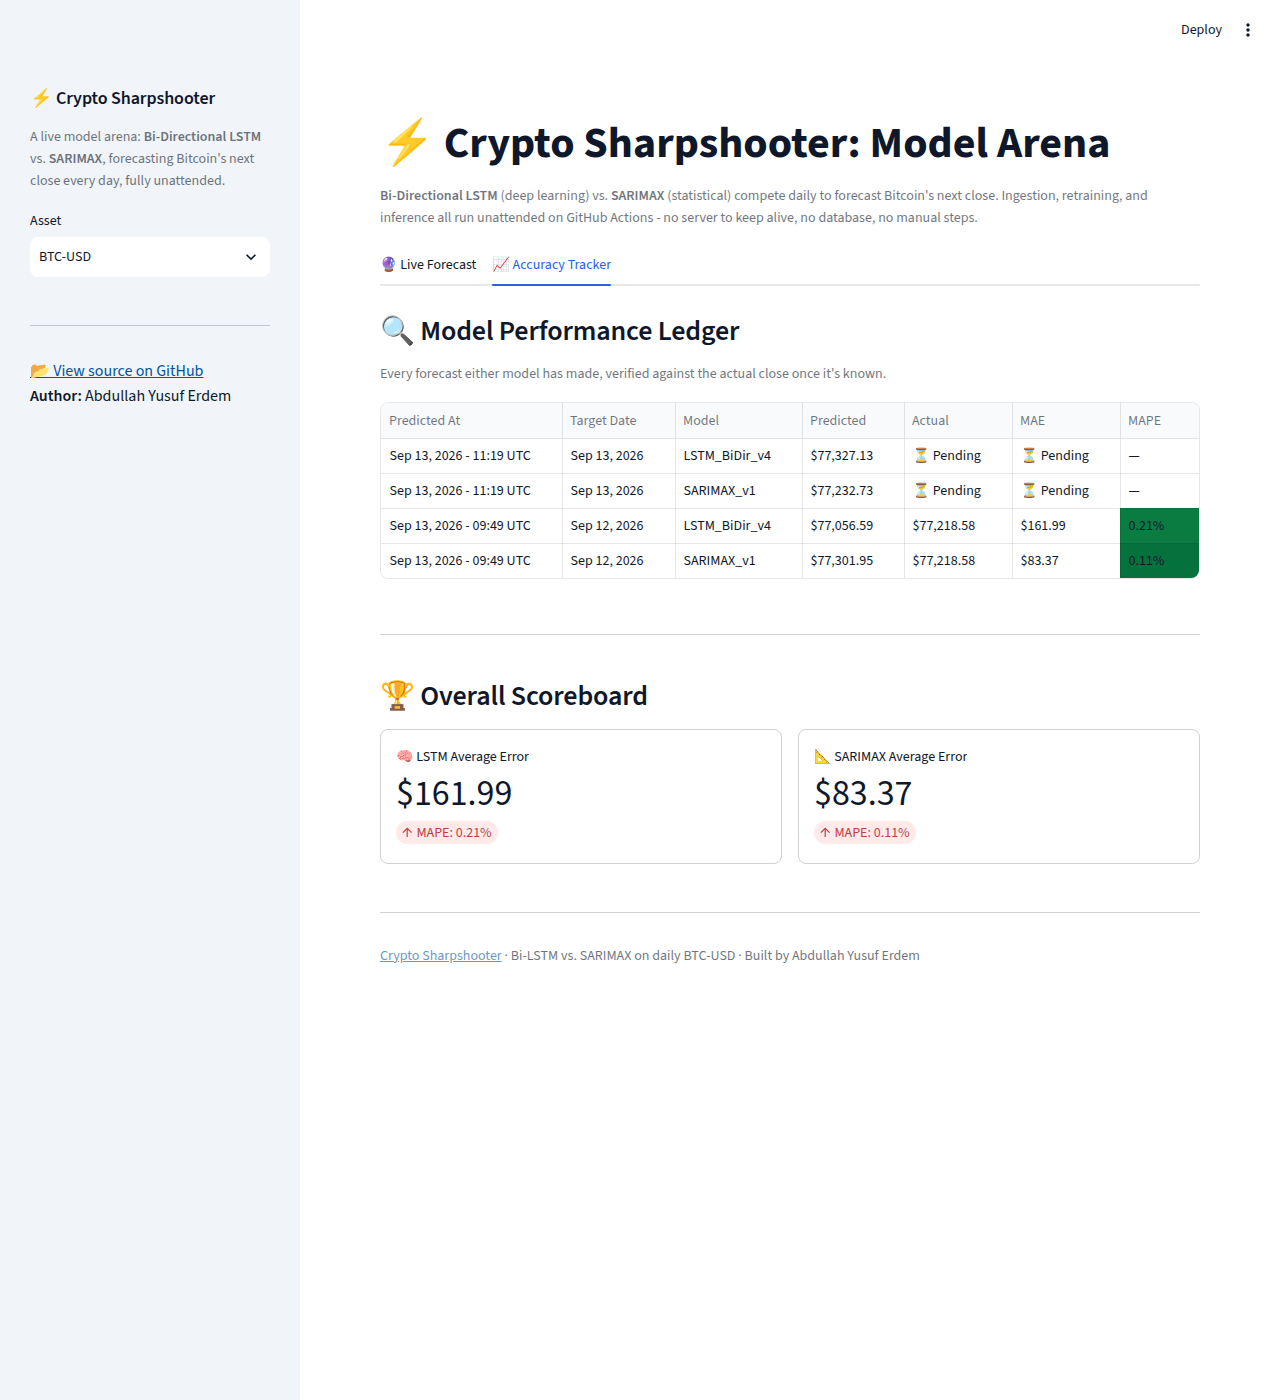
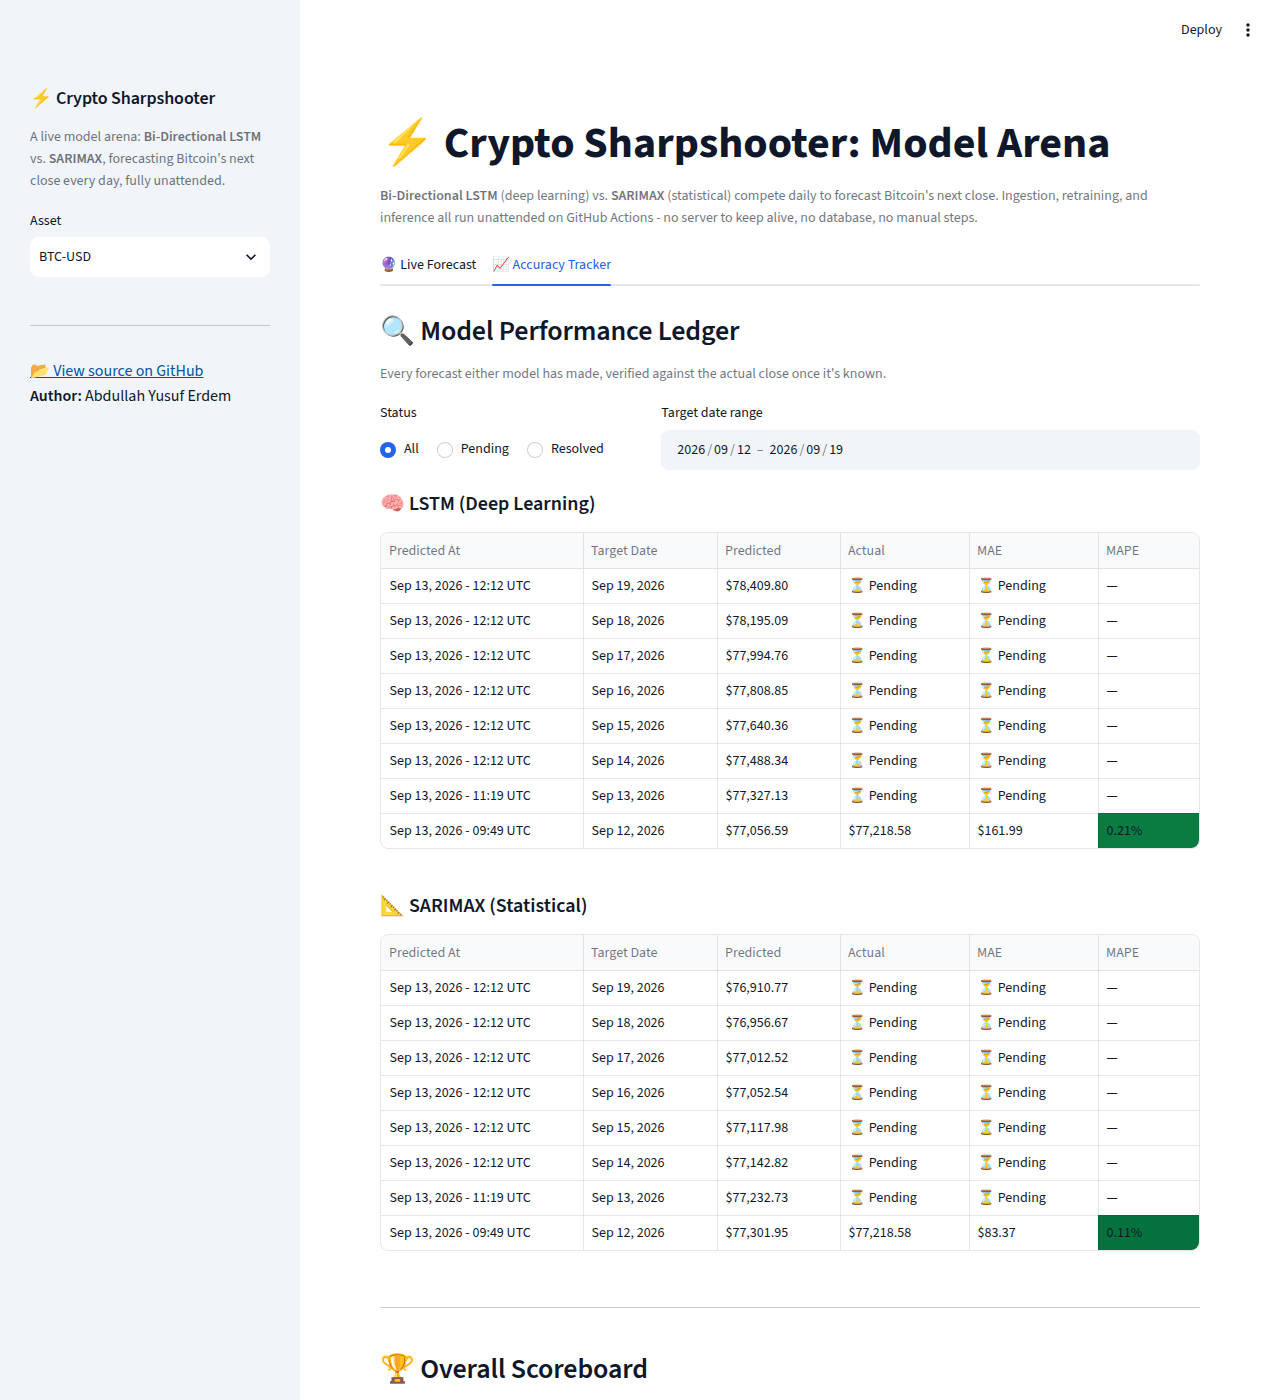
Split Accuracy Tracker into per-model tables, add status/date filters
A single table interleaving both models by date got hard to track once
each retrain seeds a week's worth of predictions per model. Now each model
gets its own table (still colored by MAPE, same formatting), and a shared
filter row above both - a Status radio (All/Pending/Resolved) and a target
date range picker - narrows both tables together. The Overall Scoreboard
stays an all-time average independent of these filters, made explicit in
its caption so filtering the tables doesn't look like it silently changed
the headline numbers.

Verified interactively: switching to "Resolved" correctly narrows both
tables to their one verified row each while leaving the Scoreboard
unchanged.

Claude-Session: https://claude.ai/code/session_01QKrxXPCPoLxnnSHoGpDuL8

diff --git a/src/dashboard.py b/src/dashboard.py
@@ -168,9 +168,10 @@ else:
         st.caption("Every forecast either model has made, verified against the actual close once it's known.")
 
         if predictions:
-            df_preds = pd.DataFrame(predictions).sort_values("predicted_date", ascending=False)
+            df_preds = pd.DataFrame(predictions)
             for col in ["actual_price", "mae", "mape"]:
                 df_preds[col] = pd.to_numeric(df_preds[col], errors="coerce")
+            df_preds["predicted_date_dt"] = pd.to_datetime(df_preds["predicted_date"])
 
             def fmt_price(x):
                 return f"${x:,.2f}" if pd.notnull(x) else "⏳ Pending"
@@ -178,15 +179,29 @@ else:
             def fmt_mape(x):
                 return f"{x:.2f}%" if pd.notnull(x) else "—"
 
-            mape_numeric = df_preds["mape"]
-            display_df = df_preds[["timestamp", "predicted_date", "model_version", "predicted_price", "actual_price", "mae", "mape"]].copy()
-            display_df.columns = ["Predicted At", "Target Date", "Model", "Predicted", "Actual", "MAE", "MAPE"]
-            display_df["Predicted At"] = display_df["Predicted At"].map(fmt_timestamp)
-            display_df["Target Date"] = display_df["Target Date"].map(fmt_date)
-            display_df["Predicted"] = display_df["Predicted"].map(fmt_price)
-            display_df["Actual"] = display_df["Actual"].map(fmt_price)
-            display_df["MAE"] = display_df["MAE"].map(fmt_price)
-            display_df["MAPE"] = display_df["MAPE"].map(fmt_mape)
+            # --- Shared filters (apply to both tables below) ---
+            filt_col1, filt_col2 = st.columns([1, 2])
+            with filt_col1:
+                status_filter = st.radio("Status", ["All", "Pending", "Resolved"], horizontal=True)
+            with filt_col2:
+                min_date = df_preds["predicted_date_dt"].min().date()
+                max_date = df_preds["predicted_date_dt"].max().date()
+                date_range = st.date_input(
+                    "Target date range", value=(min_date, max_date),
+                    min_value=min_date, max_value=max_date,
+                )
+
+            filtered = df_preds
+            if status_filter == "Pending":
+                filtered = filtered[filtered["actual_price"].isna()]
+            elif status_filter == "Resolved":
+                filtered = filtered[filtered["actual_price"].notna()]
+            if isinstance(date_range, tuple) and len(date_range) == 2:
+                start, end = date_range
+                filtered = filtered[
+                    (filtered["predicted_date_dt"].dt.date >= start)
+                    & (filtered["predicted_date_dt"].dt.date <= end)
+                ]
 
             # Color the MAPE column by the original numeric value, manually - avoids
             # relying on Styler.format()'s na_rep and background_gradient's NaN handling,
@@ -194,24 +209,46 @@ else:
             # correctly (na_rep silently dropped, NaN gmap cells rendered solid black).
             cmap = matplotlib.colormaps["RdYlGn_r"]
 
-            def mape_color(_col):
-                colors = []
-                for val in mape_numeric:
-                    if pd.isnull(val):
-                        colors.append("")
-                    else:
-                        r, g, b, _ = cmap(min(max(val / 5, 0), 1))
-                        colors.append(f"background-color: rgb({r*255:.0f},{g*255:.0f},{b*255:.0f})")
-                return colors
+            def render_model_table(df_model, title):
+                st.markdown(f"##### {title}")
+                if df_model.empty:
+                    st.info("No predictions match the current filters.")
+                    return
 
-            st.dataframe(
-                display_df.style.apply(mape_color, subset=["MAPE"]),
-                use_container_width=True,
-                hide_index=True,
-            )
+                df_model = df_model.sort_values("predicted_date", ascending=False)
+                mape_numeric = df_model["mape"]
+                display_df = df_model[["timestamp", "predicted_date", "predicted_price", "actual_price", "mae", "mape"]].copy()
+                display_df.columns = ["Predicted At", "Target Date", "Predicted", "Actual", "MAE", "MAPE"]
+                display_df["Predicted At"] = display_df["Predicted At"].map(fmt_timestamp)
+                display_df["Target Date"] = display_df["Target Date"].map(fmt_date)
+                display_df["Predicted"] = display_df["Predicted"].map(fmt_price)
+                display_df["Actual"] = display_df["Actual"].map(fmt_price)
+                display_df["MAE"] = display_df["MAE"].map(fmt_price)
+                display_df["MAPE"] = display_df["MAPE"].map(fmt_mape)
+
+                def mape_color(_col):
+                    colors = []
+                    for val in mape_numeric:
+                        if pd.isnull(val):
+                            colors.append("")
+                        else:
+                            r, g, b, _ = cmap(min(max(val / 5, 0), 1))
+                            colors.append(f"background-color: rgb({r*255:.0f},{g*255:.0f},{b*255:.0f})")
+                    return colors
+
+                st.dataframe(
+                    display_df.style.apply(mape_color, subset=["MAPE"]),
+                    use_container_width=True,
+                    hide_index=True,
+                )
+
+            render_model_table(filtered[filtered["model_version"].str.contains("LSTM")], "🧠 LSTM (Deep Learning)")
+            st.markdown("")
+            render_model_table(filtered[filtered["model_version"].str.contains("SARIMAX")], "📐 SARIMAX (Statistical)")
 
             st.divider()
             st.subheader("🏆 Overall Scoreboard")
+            st.caption("All-time average, independent of the filters above.")
             df_finished = df_preds.dropna(subset=["mape"])
 
             if not df_finished.empty:
